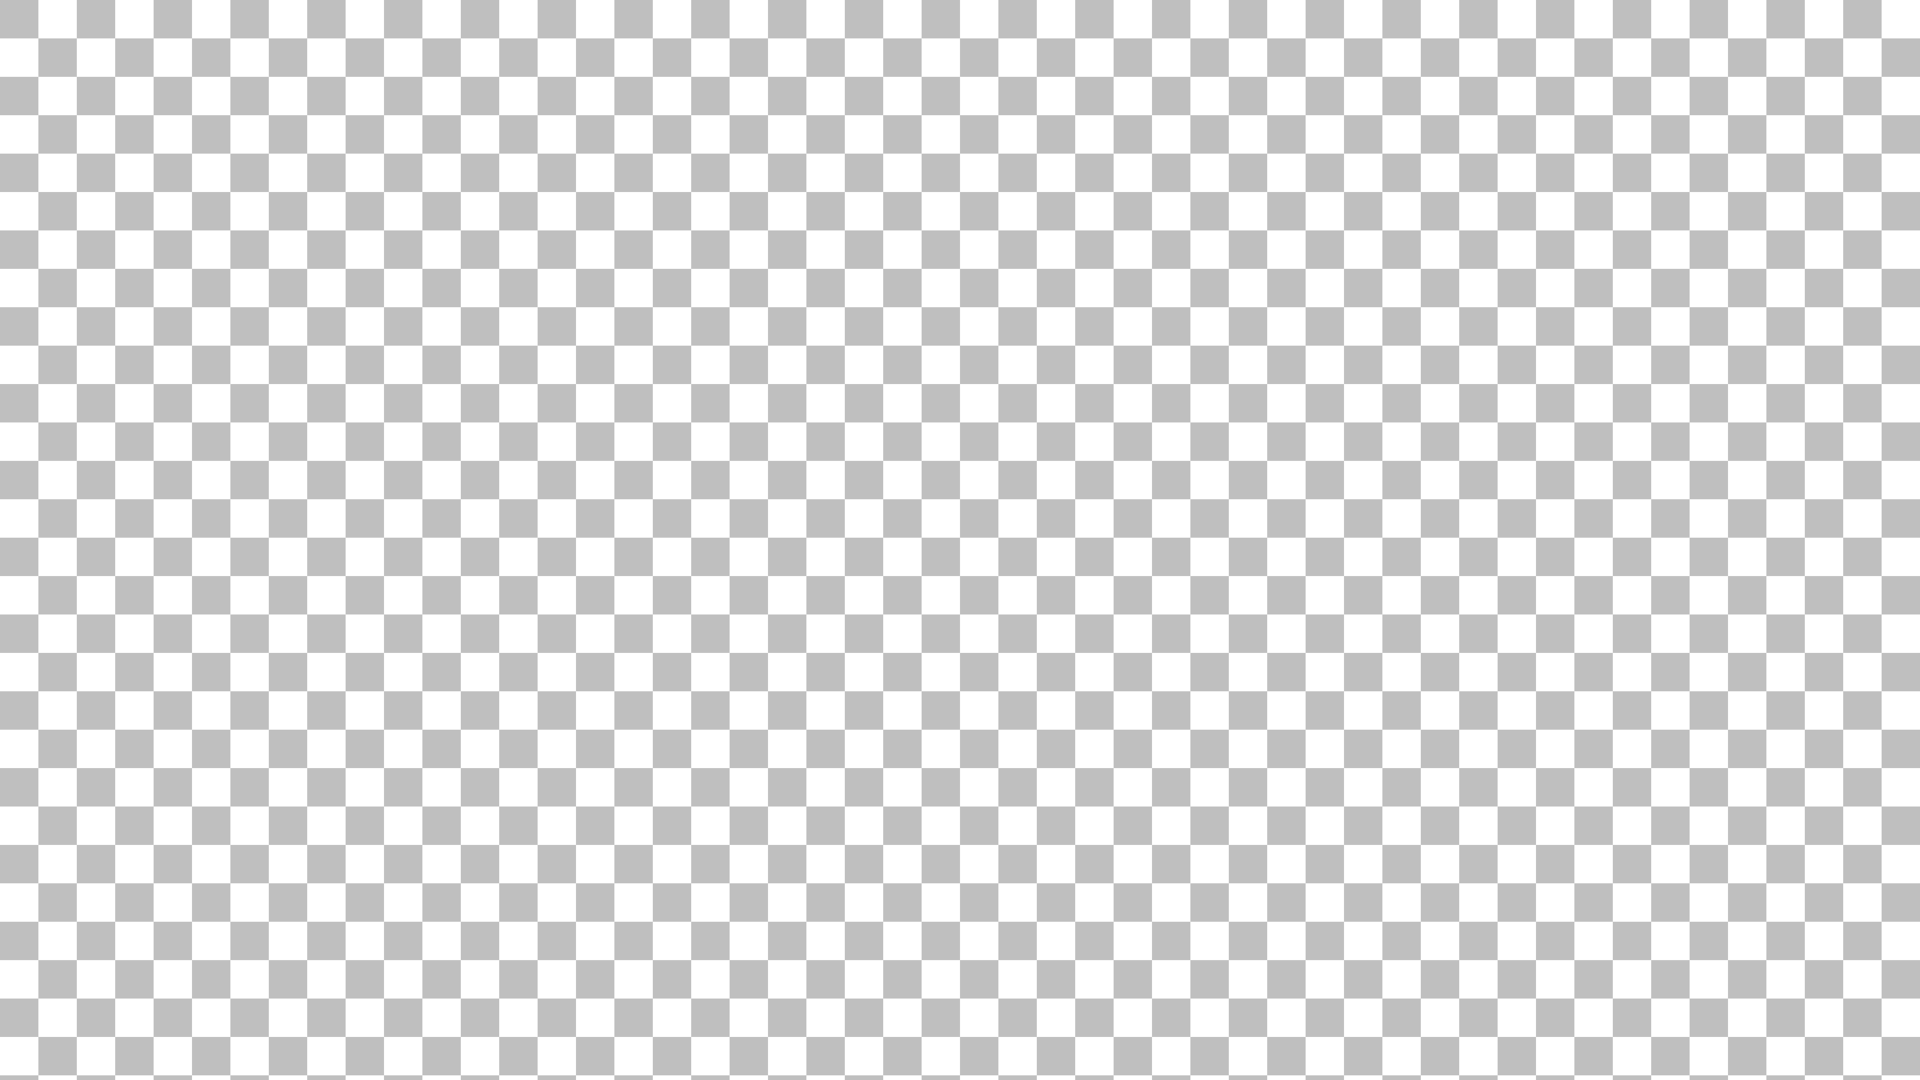
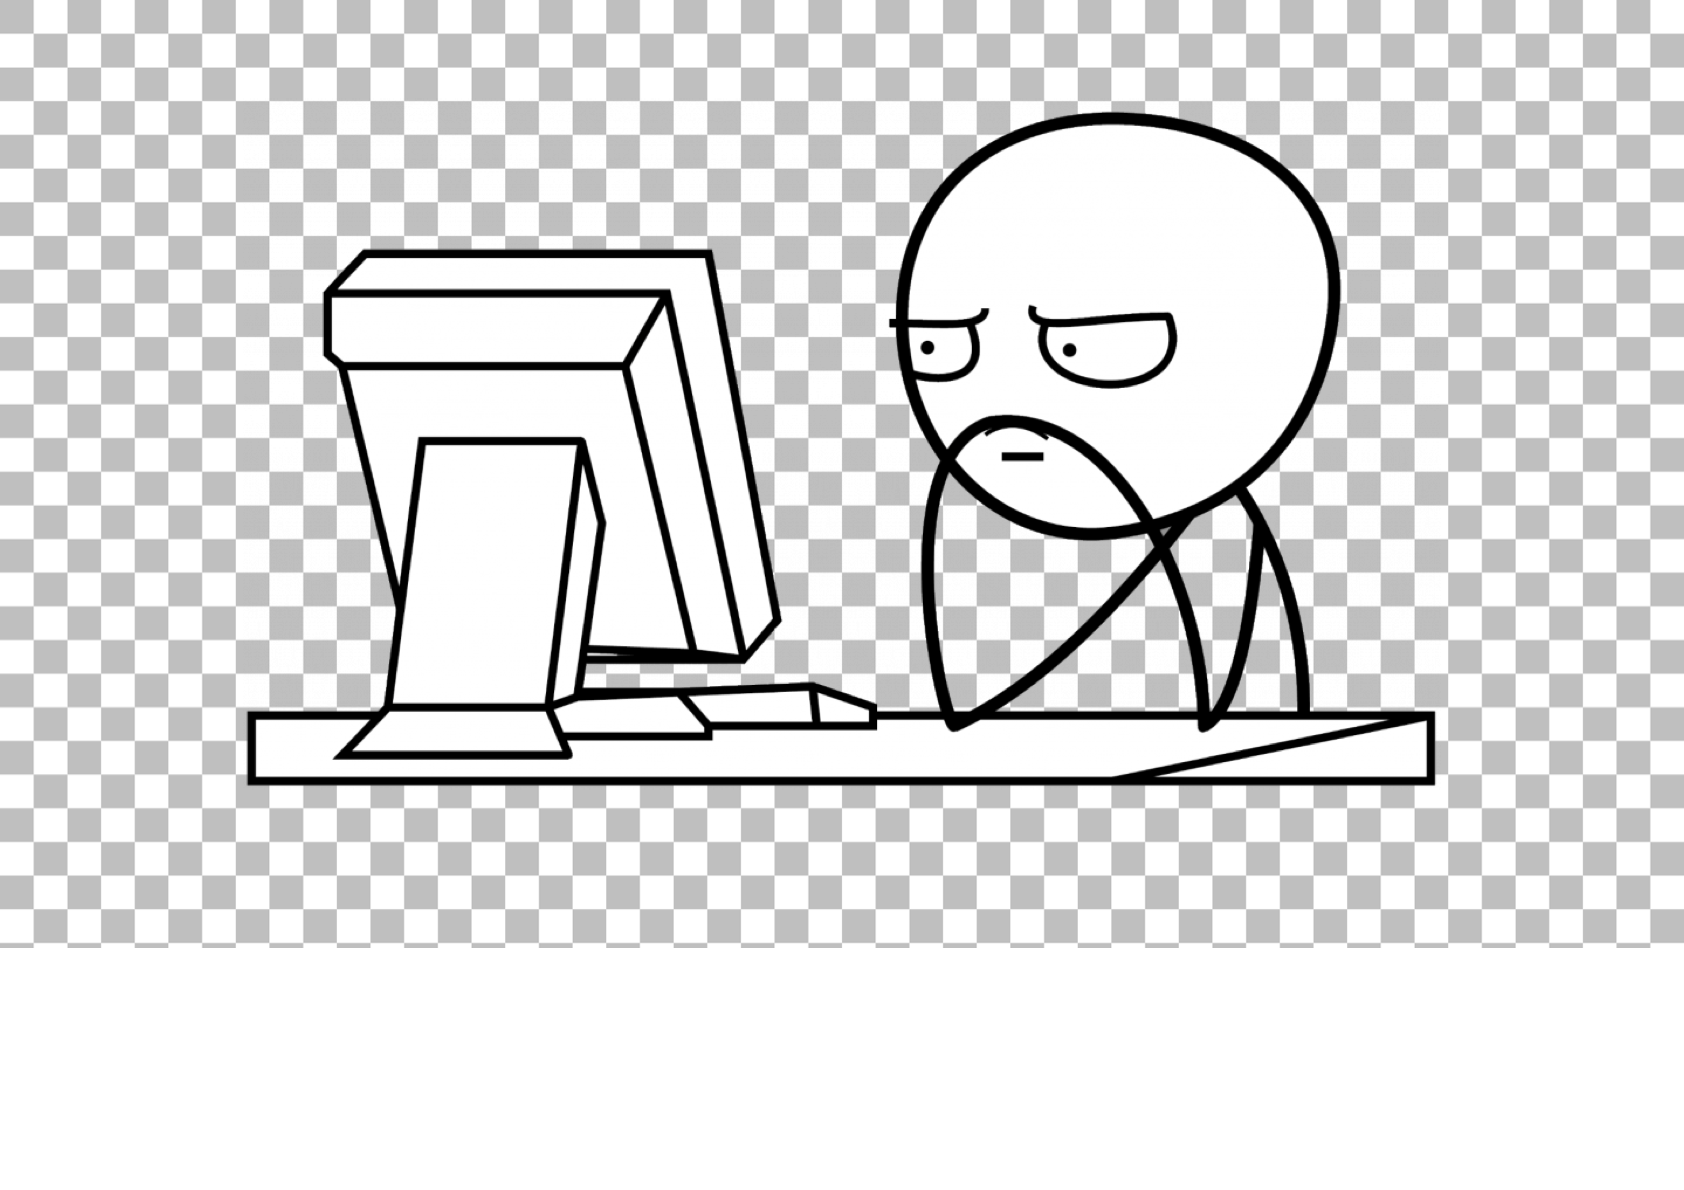
Change dummy pic

diff --git a/app.py b/app.py
@@ -495,7 +495,7 @@ async def remove_this_message(call):
 async def preparations():
     global DUMMY_PHOTO_ID
 
-    dummy_image = generate_image('', Image.open('images/dummy-background.png').convert('L'), 0.3, 1)
+    dummy_image = generate_image('', Image.open('images/dummy-background.png').convert('L'), 0, 1)
     dummy_photo_message = await tbot.send_photo(LOGS_CHANNEL_ID, image_to_file(dummy_image, SENT_IMAGE_FILE_NAME),
                                                 caption='<pre>BOT IS UP</pre>',
                                                 parse_mode='html',
